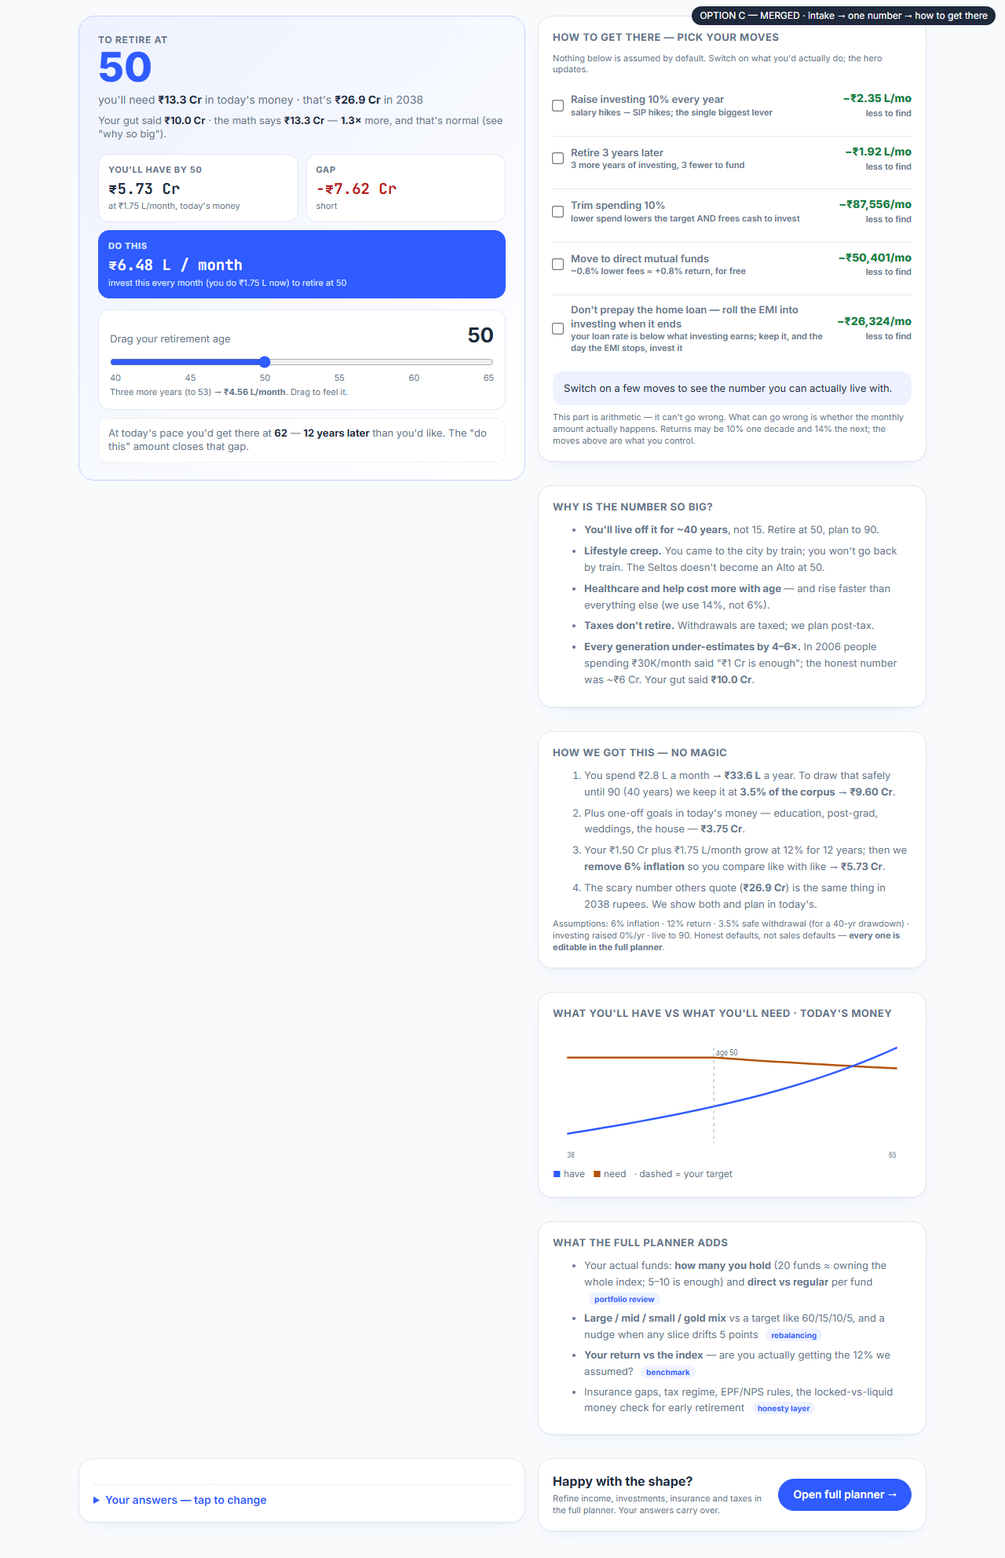
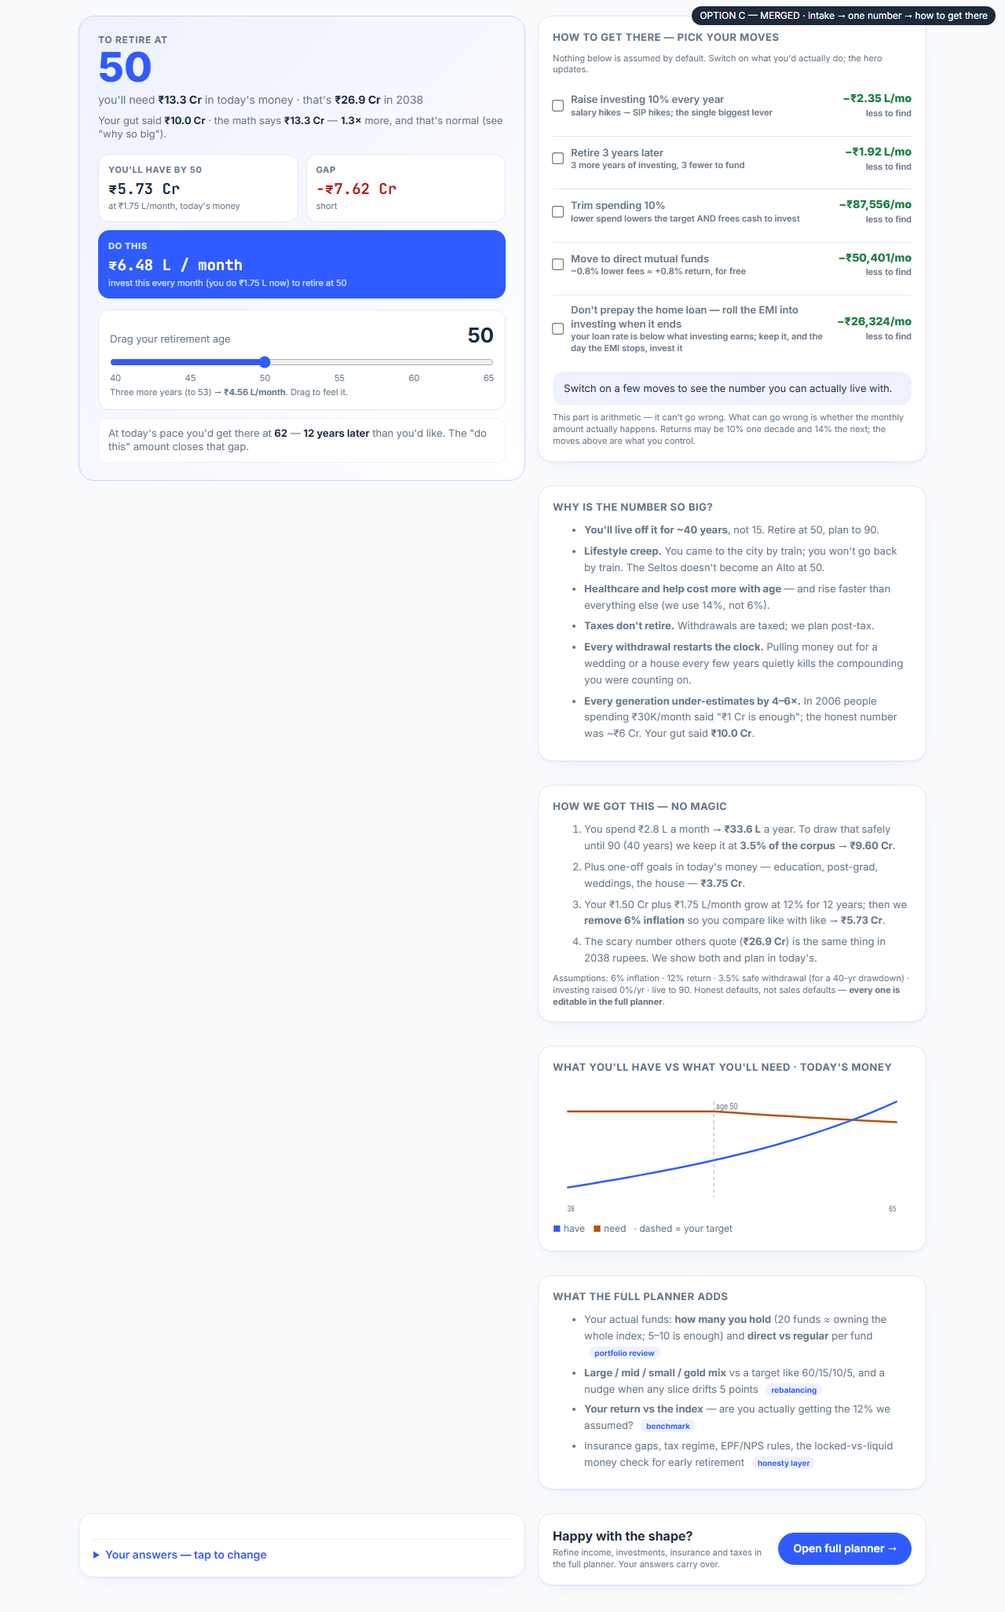
docs(goals): apply blind-review fixes to the Quick Number spec + matrix + mockup
QN-2 owns ui.quick; reuse household.wizardCompleted (no new flag); solver bounds + monotonicity property
test + Infinity/null semantics; GapTone separate from HeroTone; AccelerationCard machinery retained;
"MutualFunds" enum literal; no invented layout key; wedding at 30 per transcript; broken-compounding
aside (A17); direct-plans availability gate; version pin line.

Claude-Session: https://claude.ai/code/session_01PiqGZ8w4L1igPHy7bza2SS

diff --git a/docs/design/2026-08-27-quick-number-gap-hero/option-c-merged.html b/docs/design/2026-08-27-quick-number-gap-hero/option-c-merged.html
@@ -65,6 +65,7 @@
       <li><b>Lifestyle creep.</b> You came to the city by train; you won't go back by train. The Seltos doesn't become an Alto at 50.</li>
       <li><b>Healthcare and help cost more with age</b> — and rise faster than everything else (we use 14%, not 6%).</li>
       <li><b>Taxes don't retire.</b> Withdrawals are taxed; we plan post-tax.</li>
+      <li><b>Every withdrawal restarts the clock.</b> Pulling money out for a wedding or a house every few years quietly kills the compounding you were counting on.</li>
       <li><b>Every generation under-estimates by 4–6×.</b> In 2006 people spending ₹30K/month said "₹1 Cr is enough"; the honest number was ~₹6 Cr. Your gut said <span id="guessWhy"></span>.</li>
     </ul>
   </div>
@@ -101,7 +102,7 @@ const Q=[
  {k:"corpus",q:"Total of ALL your investments today?",h:"Add everything up: mutual funds, stocks, ETFs, EPF, NPS, PPF, FDs, gold, bonds, crypto, plots and any flat you don't live in. Leave out only the home you live in.",lakh:true},
  {k:"sip",q:"How much do you put into investments every month?",h:"All of it: SIPs, stock/ETF buys, your PF + employer PF, NPS, PPF, RDs — whatever you add every month.",lakh:true},
  {k:"spouseCorpus",q:"Spouse's investments, if any?",h:"ALL of theirs too — MF, stocks, PF, NPS, gold, everything. Untick if not applicable.",lakh:true,toggle:"includeSpouse"},
- {k:"kids",q:"Kids?",h:"How many, and roughly how old? We time their education and weddings from this.",type:"chips",opts:[[0,"0"],[1,"1"],[2,"2"],[3,"3"]],extra:{k:"kidsAge",label:"Their age",plain:true}},
+ {k:"kids",q:"Kids?",h:"How many, and roughly how old? We time their education (at 18) and weddings (at 30) from this.",type:"chips",opts:[[0,"0"],[1,"1"],[2,"2"],[3,"3"]],extra:{k:"kidsAge",label:"Their age",plain:true}},
  {k:"education",q:"Their big costs, in today's money?",h:"Undergrad for all kids (abroad? ₹75 L+ combined), post-grad if likely, and weddings.",lakh:true,extra:{k:"postgrad",label:"Post-grad, if any"},extra2:{k:"wedding",label:"Weddings, all kids"}},
  {k:"house",q:"Any big purchase coming — bigger home, car?",h:"Net of what you'd sell. Most tools forget this; it moves your date.",lakh:true,toggle:"includeHouse",delta:true},
  {k:"emi",q:"Home loan?",h:"EMI, interest rate and years left. We'll tell you whether to prepay it.",lakh:true,toggle:"hasLoan",extra:{k:"loanRate",label:"Interest rate (%)",pct:true},extra2:{k:"loanYearsLeft",label:"Years left",plain:true}},

diff --git a/docs/goals/2026-08-27-quick-number-front-door.md b/docs/goals/2026-08-27-quick-number-front-door.md
@@ -2,7 +2,8 @@
 
 **Date:** 2026-08-27 · **Owner:** Abhay (approved the direction 2026-08-27 00:39 IST: "start the implementation automatically using get work done") · **Author:** Fable 5
 **Design SSOT:** `docs/design/2026-08-27-quick-number-gap-hero/option-c-merged.html` (+ `shots/`) · **Coverage SSOT:** `docs/design/2026-08-27-quick-number-gap-hero/COVERAGE-MATRIX.md` · **Reference:** Dezerv video `FbYnFUwdODQ` (transcript + cross-check in `D:\Abhay\Ventures\transcripts\`)
-**Execution:** via `/get-work-done` (one contract per stage below; each stage = one PR, CI-gated, independent checker). Stage order is a dependency order — QN-3 and QN-2 are kernel work that QN-1 consumes.
+**Reviewed:** context-blind review 2026-08-27 (6/10 NOT READY → 13 fixes applied, re-verified — see PROJECT-LOG D-2026-08-27-01). **Pinned version for dispatch = the commit that carries this line** (workers cite it).
+**Execution:** via `/get-work-done` (one contract per stage below; each stage = one PR, CI-gated, independent checker). Stage order is a dependency order — QN-3 and QN-2 are kernel/hero work that QN-1 consumes. **QN-2 OWNS the `ui.quick` type + store field (declared there, read there); QN-1 only writes it** — so QN-2's PR type-checks on its own.
 
 ---
 
@@ -55,10 +56,10 @@ file/symbol below before creating it; `docs/goals/.run/quick-number-PROGRESS.md`
 ## 3. STAGE QN-2 — solver + gap hero + slider on the dashboard  (matrix C1–C5, E3, E4, F3)
 
 **Pre-made decisions:**
-- New pure module `src/lib/required-contribution.ts`: `requiredMonthlyContributionFor({ snapshot, assumptions, lens, targetAge })` → `{ requiredMonthlyReal, currentMonthlyReal, gapReal, needReal, haveAtTargetReal, paceFireAge, needNominal, swrUsed }`. Implementation = **binary search on the household real monthly contribution** through the existing `derive()` path (NOT a parallel formula) so step-up, bridge/accessibility, horizon-SWR, family layer and lens are all honoured. Tolerance ₹100/month; cap 60 iterations; return `Infinity` when the target is unreachable by 90 (never NaN — rule 31).
+- New pure module `src/lib/required-contribution.ts`: `requiredMonthlyContributionFor({ snapshot, assumptions, lens, targetAge })` → `{ requiredMonthlyReal, currentMonthlyReal, gapReal, needReal, haveAtTargetReal, paceFireAge, needNominal, swrUsed }`. Implementation = **binary search on the household real monthly contribution** through the existing `derive()` path (NOT a parallel formula) so step-up, bridge/accessibility, horizon-SWR, family layer and lens are all honoured. Bounds: `lo = 0`, `hi = max(10 × current real monthly contribution, 5 × household monthly take-home, ₹5,00,000)`; tolerance ₹100/month; cap 60 iterations. If `derive()` at `hi` still does not reach the target age → `requiredMonthlyReal = Infinity` (the UI renders "beyond any realistic monthly amount — move the age"); `paceFireAge = null` when the current pace never reaches the number by `planToAge`. Never NaN (rule 31). **Monotonicity is a precondition of binary search and MUST be locked by a property test** (`kernel-invariants.property.spec.ts`): for every seed + fast-check perturbation, `derive()`'s years-to-FIRE / target-age reachability is non-increasing in the real monthly contribution across `[lo, hi]` — bridge, horizon-SWR, healthcare reservation and the NPS post-tax offset included. If the test finds a non-monotone region, STOP: file an issue and fall back to a monotone-guaranteed scan (step ₹1,000, then bisect within the first reachable step) — do not ship a silently-wrong solver.
 - Expose via `useFireDerive.ts` as computed fields; `targetAge` comes from the household's `targetRetirementAge` (existing), overridable by the hero slider (UI-local, non-persisting until "Set as my target" is clicked → persists via the existing store action).
-- `FireHero.vue` (Option-D hero, D-2026-06-10-09) gains: **one headline = target age** (replace "You'll FIRE at age N" with "To retire at {target} you'll need ₹X (today's money · ₹Y in {year})"; the current-pace age moves to the demoted annotation exactly as in the mockup), the four tiles (need / have-by-target / gap / **do this**), the retirement-age slider (40–70), the "+3 years → ₹" hint, and the gut-feel line when `ui.quick.guess` is set (QN-1). Confidence band + since-away delta + plan-variance KPI + bridge subline are RETAINED (non-removable honesty surfaces).
-- `dashboard-verdict.ts` tone: "short" (gap>0) → amber; "surplus" → green; NaN/no-baseline rule unchanged.
+- `FireHero.vue` (Option-D hero, D-2026-06-10-09) gains: **one headline = target age** (replace "You'll FIRE at age N" with "To retire at {target} you'll need ₹X (today's money · ₹Y in {year})"; the current-pace age moves to the demoted annotation exactly as in the mockup), the four tiles (need / have-by-target / gap / **do this**), the retirement-age slider (40–70), the "+3 years → ₹" hint, and the gut-feel line when `ui.quick.guess` is set. **QN-2 declares** `ui.quick?: { guess?: number; completedAt?: string; createdIds?: string[]; directPlans?: boolean }` in `src/stores/ui.ts` (persisted inside the existing `ui` document blob — no new column) and reads it; QN-1 later writes it. Confidence band + since-away delta + plan-variance KPI + bridge subline are RETAINED (non-removable honesty surfaces).
+- **New** `GapTone = "short" | "surplus" | "unknown"` + `resolveGapTone(gapReal)` in `dashboard-verdict.ts` (amber / green / neutral; NaN or ±Infinity → `unknown`, makes NO claim). The existing plan-variance `HeroTone`/`resolveHeroTone` and its rule-31 no-baseline contract are **untouched** — two signals, two types, both shown.
 - `WhatIf.vue`'s retirement-age input stays; it and the hero slider read/write the same UI-store field (`ui.whatIfTargetAge`, session-only: explicitly EXCLUDED from the `ui` store's persisted blob and its `watch` list) — one source, no drift (#64 class).
 
 **TDD:** `required-contribution.spec.ts` (Sharmas: solver result re-fed as contribution → `derive()` FIRE age == target ±0; monotone in target age; Infinity case; lens: member view returns the member's individual number per #81 while household stays primary), `FireHero.binding.spec.ts` extended, `headline-plausibility.spec.ts`: required monthly for Sharmas within [₹0, 3× current income].
@@ -68,9 +69,9 @@ file/symbol below before creating it; `docs/goals/.run/quick-number-PROGRESS.md`
 ## 4. STAGE QN-1 — the `/quick` express path  (matrix A1–A16, E1, E2, F2)
 
 **Pre-made decisions:**
-- Route `/quick` (`meta.layout: "bare"`, no sidebar), page `src/pages/QuickNumber.vue`, components under `src/components/quick/` (`QuickCard.vue`, `LakhInput.vue`, `QuickResult.vue`). Entry: Splash "Start my own plan" → `/quick` (the 7-step wizard becomes "Refine your plan", reachable from the result CTA and the sidebar; the onboarding router guard treats `quickCompleted` as onboarding-complete). Demo "Try the sample" unchanged; every demo-only affordance stays behind `isServerMode()`.
+- Route `/quick` (**no `meta.layout`**, exactly like `Splash`/`Login` — `App.vue` only checks `=== 'sidebar'`; do not invent a new layout key), page `src/pages/QuickNumber.vue`, components under `src/components/quick/` (`QuickCard.vue`, `LakhInput.vue`, `QuickResult.vue`). Entry: Splash "Start my own plan" → `/quick` (the 7-step wizard becomes "Refine your plan", reachable from the result CTA and the sidebar; completing `/quick` sets the EXISTING `household.wizardCompleted = true` — the flag means "setup complete", and the quick path IS the setup; the path taken is recorded in `ui.quick.completedAt`. NO new flag, NO schema change). Demo "Try the sample" unchanged; every demo-only affordance stays behind `isServerMode()`.
 - **Exactly the 10 cards of Option C**, same order, same copy (copy lives in `src/lib/quick-number-copy.ts` so it is testable and one-place): gut-feel · you (age + retire-at) · spend (+ take-home, with the sanity line) · ALL investments (copy names stocks/ETFs/gold/crypto/bonds/plots/second flat; only the home excluded) · monthly investing (names stock buys + both PFs) · spouse investments (toggle) · kids (count + age) · kids' big costs (education, post-grad, weddings) · big purchase (toggle + live delta) · home loan (toggle; EMI, rate, years left). Money in lakh with live ₹ preview; "So far…" strip after card 3.
-- **Persistence = real household data, never a side store** (5W principle 2 + the storage invariant): mapping in `src/lib/quick-number.ts` `applyQuickAnswers(household, answers)` → adult member(s) with ages + `targetRetirementAge`; `expenses.avgMonthly`; one salary line for take-home; ONE investment line per person, type `mutual-fund` (equity), label "All investments (quick estimate)", tagged `subtypeData: { quick: true }` (existing Json column — `Investment.source` already exists with a DIFFERENT meaning, 'Direct'/owner-entity id, and MUST NOT be reused); kids as DEPENDENT members with `educationStage` from age; plannedFuture lines: education (kind `education`, targetYear = kids reach 18), post-grad (education, +4), weddings (`marriage`, kids reach 28), big purchase (`general`, targetYear = now+6 unless asked); home loan as a Liability (auto-flows the EMI — so spend must be entered **without** EMI when a loan is present: card 3 copy adapts: "…excluding the home-loan EMI, we add that from the next card" — resolve the double-count explicitly); gut-feel guess + quick metadata in the **`ui` document** (`ui.quick = { guess, completedAt, createdIds }` inside `userUiPrefs.prefs` — schemaless JSON, merged server-side, so NO Prisma migration; `HouseholdConfig` columns are explicit and `server/` is off-limits). Idempotent: re-running quick updates the lines listed in `ui.quick.createdIds` (fallback: the `subtypeData.quick` tag), never duplicates.
+- **Persistence = real household data, never a side store** (5W principle 2 + the storage invariant): mapping in `src/lib/quick-number.ts` `applyQuickAnswers(household, answers)` → adult member(s) with ages + `targetRetirementAge`; `expenses.avgMonthly`; one salary line for take-home; ONE investment line per person, type `"MutualFunds"` (exact `investmentTypeSchema` enum value; equity-classified by `investment-traits.ts`), label "All investments (quick estimate)", tagged `subtypeData: { quick: true }` (existing Json column — `Investment.source` already exists with a DIFFERENT meaning, 'Direct'/owner-entity id, and MUST NOT be reused); kids as DEPENDENT members with `educationStage` from age; plannedFuture lines: education (kind `education`, targetYear = kids reach 18), post-grad (education, +4), weddings (`marriage`, kids reach **30** — the advisor's figure in the transcript, "25 years from now, at the age of 30"), big purchase (`general`, targetYear = now+6 unless asked); home loan as a Liability (auto-flows the EMI — so spend must be entered **without** EMI when a loan is present: card 3 copy adapts: "…excluding the home-loan EMI, we add that from the next card" — resolve the double-count explicitly); gut-feel guess + quick metadata in the **`ui` document** (`ui.quick = { guess, completedAt, createdIds }` inside `userUiPrefs.prefs` — schemaless JSON, merged server-side, so NO Prisma migration; `HouseholdConfig` columns are explicit and `server/` is off-limits). Idempotent: re-running quick updates the lines listed in `ui.quick.createdIds` (fallback: the `subtypeData.quick` tag), never duplicates.
 - Result screen = `QuickResult.vue` reusing the QN-2 hero + QN-5 levers + the explainer/chart/"full planner adds"/answers cards from Option C. "Open full planner" → `/fire-goals/dashboard`.
 - Zod: `quickAnswersSchema` in `src/types/quick-number.ts`; every field optional after age/target/spend (rough is fine); no NaN reaches the UI (rule 31).
 
@@ -80,20 +81,20 @@ file/symbol below before creating it; `docs/goals/.run/quick-number-PROGRESS.md`
 
 ## 5. STAGE QN-4 — explain the defaults + "why so big"  (matrix A12, B1–B3, B5, E5, F4)
 
-**Pre-made decisions:** copy from Option C verbatim into `quick-number-copy.ts` (the 5 "why so big" bullets incl. the 4–6× survey line and the gut-feel echo; the 4-step "how we got this" with live numbers; the assumptions line with the horizon-SWR shown "for a N-yr drawdown"). Rendered on the Quick result AND as a collapsible on the dashboard hero (InfoTip pattern already in `FireHero.vue`). No new settings UI — "every one is editable in the full planner" links to `/preferences#pref-section-*`. Numbers in the copy come from `derive()`/QN-2 outputs, never re-computed in the component.
+**Pre-made decisions:** copy from Option C verbatim into `quick-number-copy.ts` (the 6 "why so big" bullets incl. the broken-compounding line — "every withdrawal for a wedding or a house restarts the clock" — incl. the 4–6× survey line and the gut-feel echo; the 4-step "how we got this" with live numbers; the assumptions line with the horizon-SWR shown "for a N-yr drawdown"). Rendered on the Quick result AND as a collapsible on the dashboard hero (InfoTip pattern already in `FireHero.vue`). No new settings UI — "every one is editable in the full planner" links to `/preferences#pref-section-*`. Numbers in the copy come from `derive()`/QN-2 outputs, never re-computed in the component.
 
 **Acceptance:** snapshot spec of the explainer with Sharmas; rule 24 screenshot; copy spec asserts the 5 bullets + 4 steps are present and numbers match `derive()` outputs to the rupee.
 
 ## 6. STAGE QN-5 — "How to get there" levers  (matrix B4, B6, C6, C7, D2, E6, E7, F6)
 
 **Pre-made decisions:**
-- Extend `src/lib/lever-catalog.ts` (not a new module) with: `step-up-10` (sets `householdSavingsStepUpPercent` 10 via ADR-0004 — already supported by the kernel), `delay-3` (target+3), `direct-plans` (a What-If lever value: +0.008 on equity-class returns applied through the existing scenario/lever-value path — `user_assumptions` columns are explicit, so NO new persisted assumption field; "Make this my plan" maps it to the existing `equityReturn` override (+0.8 pp) with a note in the preferences hint. A per-holding regular/direct flag is a separate good-to-have issue), `no-prepay-roll-emi` (available only when a liability exists with rate < expected equity return; effect = a `ContributionSchedule` segment adding the EMI from the loan's end-year — ADR-0004 segments, no kernel change). Existing `trim-expenses` and `save-more` stay.
+- Extend `src/lib/lever-catalog.ts` (not a new module) with: `step-up-10` (sets `householdSavingsStepUpPercent` 10 via ADR-0004 — already supported by the kernel), `delay-3` (target+3), `direct-plans` (available only when the household is not already marked direct — `ui.quick.directPlans !== true`, or later per-holding data; a What-If lever value: +0.008 on equity-class returns applied through the existing scenario/lever-value path — `user_assumptions` columns are explicit, so NO new persisted assumption field; "Make this my plan" maps it to the existing `equityReturn` override (+0.8 pp) with a note in the preferences hint. A per-holding regular/direct flag is a separate good-to-have issue), `no-prepay-roll-emi` (available only when a liability exists with rate < expected equity return; effect = a `ContributionSchedule` segment adding the EMI from the loan's end-year — ADR-0004 segments, no kernel change). Existing `trim-expenses` and `save-more` stay.
 - Effect metric everywhere = **"less to find"** = Δ(required monthly − current monthly) from QN-2's solver, per lever alone and for the stacked set; stacking = apply levers to the snapshot/assumptions then re-solve (no additive shortcuts).
-- The lever card (Option C) lives in `src/components/quick/LeverPicker.vue` and is reused on the dashboard as the body of `AccelerationCard.vue` (replacing the fixed-extra-amount presentation; keep the ranked "biggest win" KPI, now ranked by "less to find").
+- The lever card (Option C) lives in `src/components/quick/LeverPicker.vue` and is added to the dashboard INSIDE `AccelerationCard.vue` as its body. **`useAcceleration.ts`, `lever-impact.ts`, `lever-bands.ts`, the `bridgeBinding`/`baselineReachable` guards and `AccelerationCard.binding.spec.ts` are RETAINED** (bug-#22 / rule-31 history): the "biggest win" KPI keeps its years-saved ranking; LeverPicker adds the ₹/month "less to find" view driven by `required-contribution.ts` (which itself goes through `derive()`, so it is bridge-aware). The binding spec is EXTENDED with the picker, never deleted. Only the fixed-extra-amount "save more" presentation is replaced.
 - Toggled levers update the hero live; persisting a lever = the existing scenario mechanism (`scenarios` store, non-persisting What-If) — "Make this my plan" writes step-up/target into household + assumptions.
 - The honesty line under the plan summary ("this is arithmetic; what can go wrong is the monthly amount…") is verbatim.
 
-**TDD:** `lever-catalog.spec.ts` for each new lever (availability rule for no-prepay incl. rate ≥ return → unavailable with the "prepay it" copy; stacked ≠ sum of parts; every lever's "less to find" ≥ 0), `lever-value` no-inert-lever guard (memory `project_lever_value_requires_unassumed_baseline`: assert each lever changes the solver output on Sharmas — a moot lever fails the test), member-lens: levers on the member view use the individual number.
+**TDD:** `lever-catalog.spec.ts` for each new lever (availability rule for no-prepay incl. rate ≥ return → unavailable with the "prepay it" copy; stacked ≠ sum of parts; every lever's "less to find" ≥ 0), no-inert-lever guard **in `lever-catalog.spec.ts`** (lesson `project_lever_value_requires_unassumed_baseline`: assert each lever changes the solver output on Sharmas — a moot lever fails the test), member-lens: levers on the member view use the individual number.
 
 **Acceptance:** rule 24/32: toggle each lever on `/quick` result and dashboard, screenshots; rule 31: Amit with step-up+delay+direct lands in the "clearly doable" band (required within 1.5× current); FinTech-analyst review of the lever semantics; rule 29.
 

diff --git a/docs/design/2026-08-27-quick-number-gap-hero/COVERAGE-MATRIX.md b/docs/design/2026-08-27-quick-number-gap-hero/COVERAGE-MATRIX.md
@@ -20,12 +20,13 @@ Source of truth for the left column: `D:\Abhay\Ventures\transcripts\FbYnFUwdODQ.
 | A7 | Kids: count, ages | DEPENDENT members | ✓ | ✓ | QN-1 |
 | A8 | Education (today ₹; advisor bumps 60→75 L for abroad) | plannedFuture `education` | ✓ | ✓ | QN-1 |
 | A9 | Post-grad | plannedFuture `education` | ✓ | ✓ | QN-1 |
-| A10 | Wedding (today ₹, ~25 yrs out) | plannedFuture `marriage` | ✓ amount · ✗ timing | ✓ amount · timing derived from kids' age (wedding ≈ age 28) | QN-1, QN-3 |
+| A10 | Wedding (today ₹, ~25 yrs out, "at the age of 30") | plannedFuture `marriage` | ✓ amount · ✗ timing | ✓ amount · timing derived from kids' age (wedding at 30, per transcript) | QN-1 |
 | A11 | House upgrade, net ₹1 Cr, 5–8 yrs | plannedFuture `general` — **NOT in FIRE number** (#165) | ✓ + delta hint | ✓ | QN-3 (Tier-0 fix) |
 | A12 | Lifestyle inflation 8% (advisor-set) | 4-bucket inflation | ✓ (assumptions) | ✓ | QN-4 |
 | A13 | Investment real estate (plot ₹1.2 Cr, 8% IRR outlook) | realEstate asset type | **✗** (copy said "leave out the house" — implied all property) | ✓ counted in A5 copy; outlook — (needs market data) | QN-1 |
 | A14 | Spouse's investments (₹70 L) — the "missed then added" moment | Members | ✓ | ✓ | QN-1 |
 | A15 | Household income sanity check (spend + SIP ≈ income?) | Income section | **✗** | ✓ income asked with spend; "₹4.55 L of your ₹5 L — sound right?" line | QN-1 |
+| A17 | "I withdrew from my MFs every 2–3 years… missed the cumulative impact" — broken-compounding aside | — | **✗** | ✓ 6th "why so big" bullet | QN-4 |
 | A16 | User's own guess ("8–10 Cr") vs the math ("32 Cr") — the hook | — | **✗** | ✓ Q1 gut-feel chips; hero shows "you guessed ₹10 Cr · the math says ₹13.3 Cr" | QN-1, QN-2 |
 
 ## B. Assumptions the tool used (Part 2)
@@ -56,7 +57,7 @@ Source of truth for the left column: `D:\Abhay\Ventures\transcripts\FbYnFUwdODQ.
 | # | Video item | FireKaro today | Mockup now | Plan |
 |---|---|---|---|---|
 | D1 | XIRR vs benchmark (13.3 vs 13.4) | #146 open | listed in "What the full planner adds" | — (#146, separate) |
-| D2 | Access: direct vs regular TER (+80 bps) | none | ✓ lever (+0.8%) | QN-5 (household-level toggle) ; per-holding flag → #NEW |
+| D2 | Access: direct vs regular TER (+80 bps) | none | ◐ lever (+0.8%; mock has no "already direct" gate — spec adds one) | QN-5 (household-level toggle) ; per-holding flag → #NEW |
 | D3 | Selection: 72/18/9 vs 60/25–27/13–15 | none | listed | — (#141) |
 | D4 | Allocation: 65% funds underperform; 20 funds = index; keep 5–10 | none | listed ("we'll count your funds") | #NEW fund-count warning (good-to-have) |
 | D5 | Gold ~7% = ideal uncorrelated asset | goldReturn 7% | listed | — |
